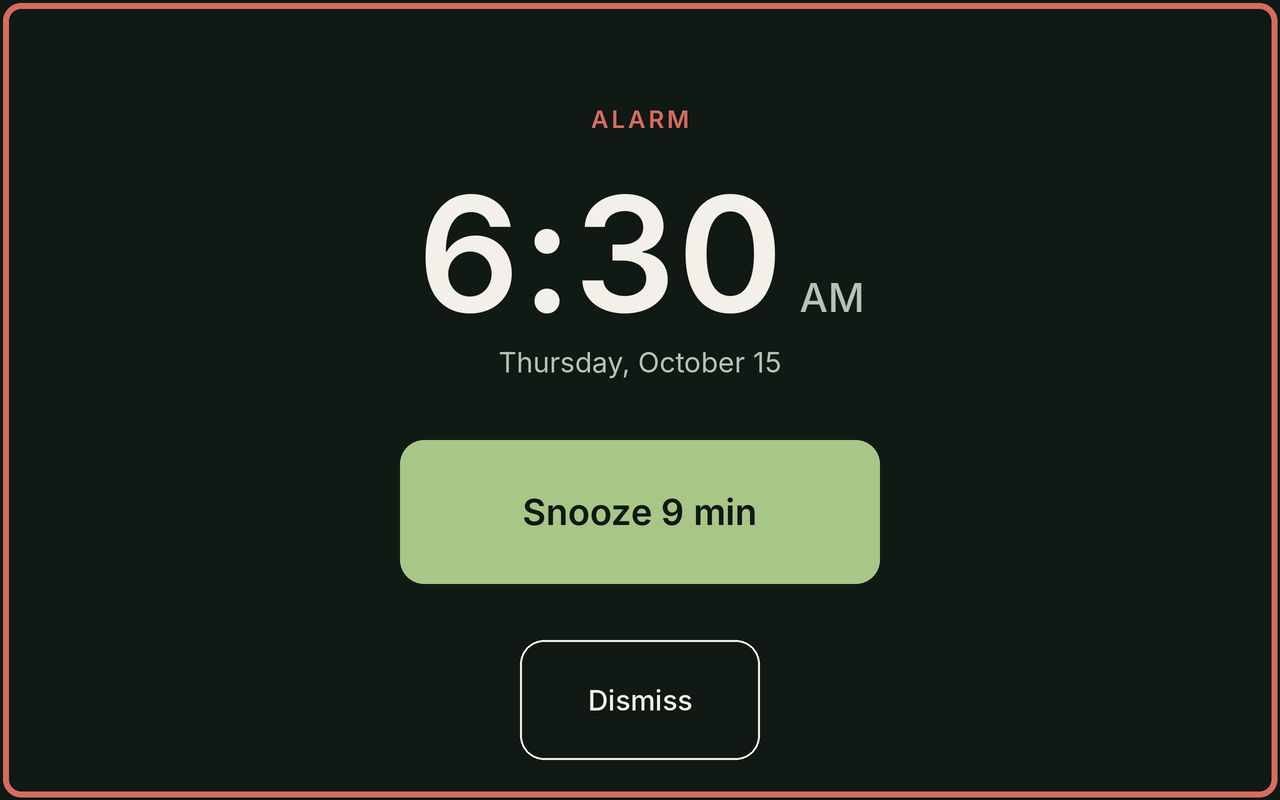
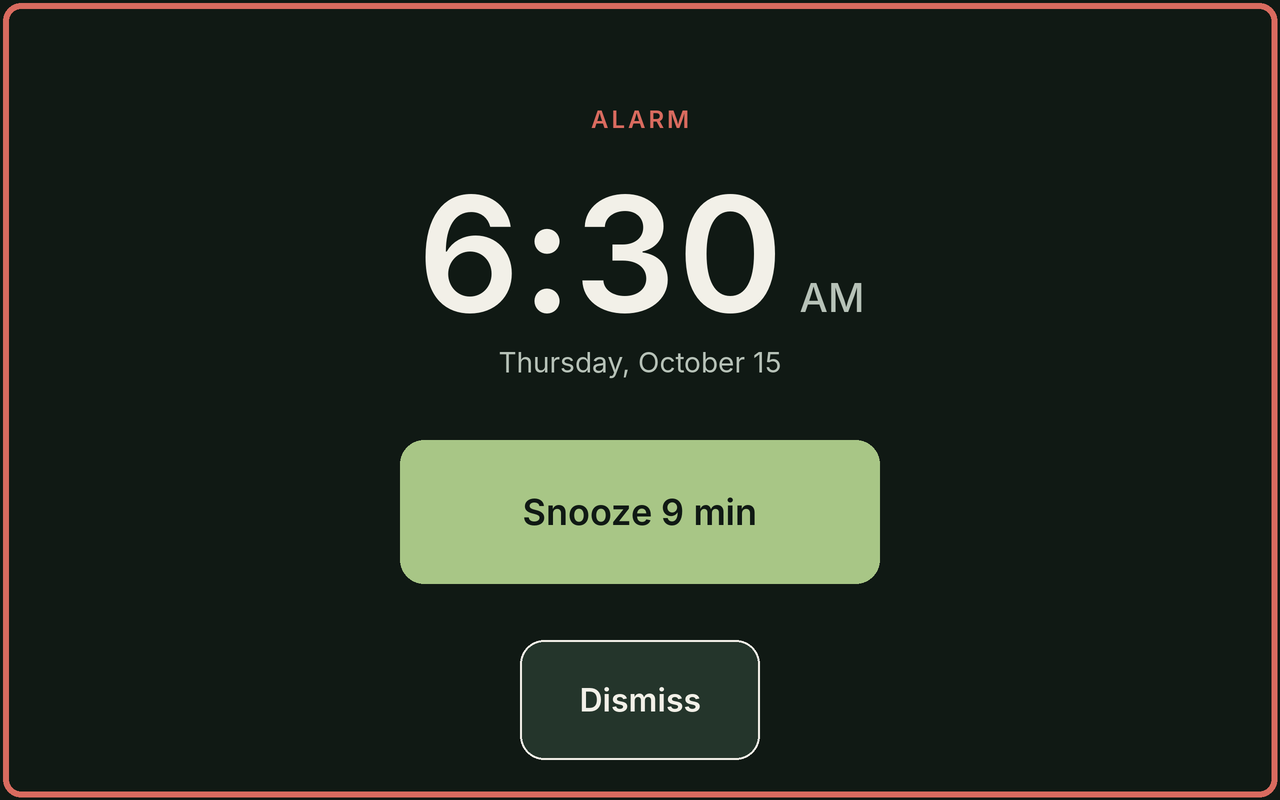
docs: design review follow-up (contrast, touch, recovery, alarm priority)
- Verified contrast for all text/state pairs; fixed 3 failures
- Snooze-stop gap, settings row/chip spacing, heavier Dismiss
- Atomic save with backup, save-error state, startup recovery
- Alarm preempts Settings; idle timer paused; touch guard on alarm screen
- Night clock wake tap consumed; Atkinson bundling + on-Pi sign-off steps
- Readability/touch table; settings-save-error mockup

Claude-Session: https://claude.ai/code/session_01TkmnQ4fWMJmvRhmzahQbQb

Changed region(s): [[0.4062, 0.7812, 0.5938, 0.9688]]

diff --git a/docs/superpowers/specs/2026-10-14-pi-picture-frame-design.md b/docs/superpowers/specs/2026-10-14-pi-picture-frame-design.md
@@ -5,7 +5,7 @@
 ## Goal
 A Raspberry Pi 3 wooden tabletop frame: photo slideshow + clock/date, calendar, weather and alarm, touch-controlled, runs unattended for weeks.
 
-**Who and where:** a shared household device, read at a glance from 2–3 m (living room) and used half-asleep at arm's length (bedside alarm). It should feel like a picture frame first and a gadget second: calm, dark, no clutter, nothing that needs instructions.
+**Who and where:** a shared household device, glanced at from across a room and used half-asleep at arm's length (bedside alarm). On a 10.1" panel (149 ppi, 1 px ≈ 0.17 mm) that gives two reading distances: the **clock and photos** are for the room (2–3 m); the **date, Today list, calendar and controls** are for arm's length (≈ 0.5–0.7 m). See "Readability and touch check". It should feel like a picture frame first and a gadget second: calm, dark, no clutter, nothing that needs instructions.
 
 ## Hardware
 - Raspberry Pi 3 (record B or B+), 16–32 GB A1 microSD, matching 5V PSU
@@ -32,10 +32,12 @@ Raspberry Pi OS Lite · Python 3 + pygame (SDL KMS/DRM, no desktop) · Open-Mete
 | `accent` | `#A8C686` | Today, On states, primary buttons; text on it is `bg` (9.5:1) |
 | `highlight` | `#E6B86A` | To-do marker, warnings |
 | `alarm` | `#D96B5F` | Alarm label, ring pulse, missed-alarm stripe. **Never** behind `text` (2.96:1 fails); if used as a fill, text on it is `bg` (5.3:1) |
-| `night` | `#6B786E` | Night clock text, on pure black `#000000` |
+| `night` | `#6B786E` | All night clock text including AM/PM, on pure black `#000000` (4.5:1) |
 
 ### Type scale
 Inter for clock, numbers and headings; Atkinson Hyperlegible for UI text. Nothing smaller than 18 px.
+
+**Font status:** the mockups use Inter for all text. Bundling Atkinson Hyperlegible (Regular + Bold, OFL) in `assets/fonts/` is a build-time task (plan Task 7). The visual design counts as final only after Atkinson is confirmed rendering on the Pi itself (plan Task 11), and after every label is re-checked for fit, because Atkinson runs wider than Inter.
 
 | Role | Font | Size |
 |---|---|---|
@@ -55,6 +57,23 @@ Clock digits use **fixed-width cells** (each digit centered in the width of "0")
 - Spacing on an 8 px grid; screen margin 32, gutter 24, panel padding 24
 - Text on photos: `bg` backing at 80% opacity, 20/24 px padding, soft 8 px shadow
 - No gradients or glow except the alarm ring pulse
+
+### Contrast (verified)
+Rule: text ≥ 4.5:1 against its actual background in every state; icons and control outlines ≥ 3:1. Measured with the WCAG 2.1 formula (worst case shown):
+
+| Pair | Ratio |
+|---|---|
+| `text` on `bg` / `panel` / `raised` / `pressed` | 15.7 / 13.4 / 11.4 / 9.2 |
+| `secondary` on `bg` / `panel` / `raised` / `pressed` | 9.8 / 8.3 / 7.1 / 5.7 |
+| `bg` on `accent` / pressed accent `#BCD69E` | 9.5 / 11.3 |
+| `alarm` on `bg` (ALARM caption only) | 5.3 |
+| `night` on black | 4.5 |
+| `text` / `secondary` on a photo chip over a pure-white photo (`bg` 80% → `#404743`) | 8.4 / 5.2 |
+| Icon `secondary` on `raised` (toggle-off knob, disabled stepper) | 7.1 |
+
+Not allowed (measured failures): `alarm` text on `raised` (3.8) or `pressed` (3.1); `text` on `alarm` (3.0); dimmed greys like `#6B766D` on `panel` (3.2). `raised` buttons on `panel` are only 1.2:1, so a button is identified by its icon or label (≥ 7:1), never by its fill alone.
+
+**Disabled state** (stepper at the end of its range, night start/end while night mode is off): the button loses its `raised` fill and its icon turns `secondary`, and values stay `secondary`. That is still 7–8:1, readable but clearly not active. Disabled buttons ignore taps.
 
 ### Icons
 Outlined, 2 px rounded strokes, pre-rendered PNGs in 32 and 48 px.
@@ -100,7 +119,7 @@ Outlined, 2 px rounded strokes, pre-rendered PNGs in 32 and 48 px.
 - **Calendar:** the date line above already names the month, so there is no month title. Today = 32 px `accent` circle with `bg` SemiBold digit. Days outside the month are blank. Week start follows `week_start`.
 - **Alarm row:** a `raised` card, radius 16, which is the `open_settings` button. Contents from left: bell icon 32, time (Inter SemiBold 28), days (e.g. "Mon–Fri", 20 px `secondary`), status dot (12 px: filled `accent` when on, `secondary` outline when off), countdown ("in 17h 49m", 20 px `secondary`, right-aligned), chevron-forward. The chevron tells people the row opens something.
   - Alarm off: "Alarm off" in `secondary`, outline dot, no countdown.
-  - **Snoozed:** the row narrows to `open_settings` (56, 672, 352, 72) and shows "Snoozed · rings 6:39" in `alarm`. A `stop_snooze` button (416, 672, 72, 72, close icon) cancels the snooze. Without it, someone who snoozed and got up has no way to stop the next ring except waiting for it.
+  - **Snoozed:** the row narrows to `open_settings` (56, 672, 336, 72) and shows "Snoozed · rings 6:39" (22 px SemiBold) in `text` with the bell icon in `alarm`. Alarm red is never used for text on `raised`. A `stop_snooze` button (416, 672, 72, 72, close icon) cancels the snooze; the 24 px gap keeps "open Settings" and "cancel snooze" from being hit by the same finger. Without it, someone who snoozed and got up has no way to stop the next ring except waiting for it.
 - **Photo content:** shows the current slideshow photo, cropped to fill. Landscape photos crop around the center; portrait photos keep the **upper third** in view, so faces aren't cut off. Empty folder: photo icon, "No photos yet" (28 px), the folder path (Inter 20 `secondary`, e.g. `/home/pi/frame/photos`) and "Add photos with rsync over SSH" (20 px `secondary`), centered.
 
 **Weather strip** (576×64): icon 48 · temp 32 px · condition label 22 px · "H 72°  L 55°" 22 px `secondary`, right-aligned.
@@ -111,7 +130,8 @@ Outlined, 2 px rounded strokes, pre-rendered PNGs in 32 and 48 px.
 **Banners** (one at a time, highest priority shown, "· 1 more" appended when others wait):
 1. "Missed alarm 6:30 AM": 6 px `alarm` left stripe; the whole banner is `clear_banner`, with a close icon at the right
 2. "Time not set": `highlight` stripe
-3. Config warning, e.g. "config.toml has errors — using defaults": `highlight` stripe
+3. "Settings not saved" (save failed, see Saving and recovery): `highlight` stripe
+4. Config warning, e.g. "config.toml has errors — using defaults": `highlight` stripe
 
 The banner is a `bg` 90% card, radius 16, with 22 px Atkinson text. Only the missed-alarm banner is dismissible; the others clear when their cause is fixed.
 
@@ -130,7 +150,8 @@ The banner is a `bg` 90% card, radius 16, with 22 px Atkinson text. Only the mis
 - "ALARM" (or "TEST ALARM") caption in `alarm`, centered at y 120
 - Time 160 px `text`, centered, y 160–330; date 28 px `secondary` at y 350
 - `snooze`: **primary**, (400, 440, 480, 144), `accent` fill, "Snooze 9 min" in 36 px `bg`. This is the button a half-asleep hand should land on.
-- `dismiss`: secondary, (520, 640, 240, 120), 2 px `text` outline, "Dismiss" 28 px. It sits 56 px below Snooze and is half as wide, so dismissing takes a deliberate tap.
+- `dismiss`: secondary, (520, 640, 240, 120), `raised` fill with a 2 px `text` outline, "Dismiss" in Inter SemiBold 32 `text` (11.4:1). It is half as wide as Snooze and sits 56 px below it, so dismissing takes a deliberate tap, but the solid fill and bold label keep it easy to find. Both labels spell out the action; there are no icon-only alarm buttons.
+- **Touch guard:** the alarm screen ignores any touch whose finger-down happened before the screen appeared, and all touches for its first 1 s. A tap meant to wake the night screen, or to adjust Settings, can't land on Snooze or Dismiss by accident.
 - Test alarm: same screen, caption "TEST ALARM", closes itself after 10 s
 
 ### Night clock (new)
@@ -138,17 +159,22 @@ Shown when someone taps the black night screen, for `wake_s` seconds (default 60
 - Pure black `#000000`, time 160 px Inter Medium in `night` color, centered at y 250–410
 - Below it, the `open_settings` button (440, 520, 400, 72) with no fill: "Alarm 6:30 AM · Mon–Fri" in 24 px `night` + chevron-forward. This is for checking or changing the alarm at bedtime without being lit up by the full dashboard.
 - The alarm itself still uses the normal Alarm screen at night
+- **Wake rules:**
+  - The tap that wakes the black screen is consumed: it only shows the night clock and never activates a button, even when it lands where `open_settings` will appear
+  - While the night clock shows, taps outside `open_settings` only restart the `wake_s` timer, and nothing changes mode
+  - The dimness comes from color (`night` on black), so it works on every screen whether or not backlight control exists
+  - If the alarm fires while the night clock or black screen is showing, the Alarm screen replaces it at once (touch guard above). After Dismiss or the 10-min stop it returns to black if it is still night, otherwise to the mode it interrupted
 
 ### Settings
 Opened from the dashboard alarm row (or the night clock). `bg` background.
 
 - **Header:** "Settings" Inter SemiBold 32 at (32, 44); hint "Saved when you tap Done" 18 px `secondary` below it; `done` (1088, 32, 160, 64), `accent` fill, "Done" 24 px `bg`
-- **Cards:** Alarm (32, 120, 596, 648) and Display (652, 120, 596, 648), `panel` fill, radius 24, padding 24. Card title 28 px at card top + 24. Rows start at card top + 72 and are 76 px tall (64 px control + 6 px above and below), separated by 1 px `divider`. Label is 24 px Atkinson on the left, control right-aligned.
+- **Cards:** Alarm (32, 120, 596, 648) and Display (652, 120, 596, 648), `panel` fill, radius 24, padding 24. Card title 28 px at card top + 24. Rows start at card top + 64 and are 80 px tall (64 px control + 8 px above and below, so stacked controls are 16 px apart), separated by 1 px `divider`. Label is 24 px Atkinson on the left, control right-aligned.
 - **Controls:**
   - Toggle: pill 88×48 (on = `accent` with `bg` knob on the right, off = `raised` with `secondary` knob on the left) in a 104×64 hit area; the knob position carries the state, not only the color
   - Stepper (272 wide): `[−]` 64×64 · value 144 wide, Inter SemiBold 28, centered · `[+]` 64×64, both `raised`; a button greys out (`secondary` icon at 40%) at the end of its range
   - Segmented: two 96×64 segments, the selected one `accent` with `bg` text
-  - Day chips: 64×64 circles with 8 px gaps; selected = `accent` fill + `bg` text, off = 2 px `secondary` outline. Two-letter labels (Mo Tu We Th Fr Sa Su), because single letters (T/T, S/S) are ambiguous. Order follows `week_start`
+  - Day chips: 64×64 circles with 16 px gaps (7 × 64 + 6 × 16 = 544); selected = `accent` fill + `bg` text, off = 2 px `secondary` outline. Two-letter labels (Mo Tu We Th Fr Sa Su), because single letters (T/T, S/S) are ambiguous. Order follows `week_start`
 
 | Alarm card | Control | Button ids |
 |---|---|---|
@@ -170,8 +196,31 @@ Opened from the dashboard alarm row (or the night clock). `bg` background.
 | Brightness (only if supported) | Stepper 10–100 %, ±10 | `brightness_minus`, `brightness_plus` |
 
 - Separate hour and minute steppers replace the single ±5 min stepper: moving 6:30 AM to 6:30 PM took 144 taps, and now takes 12
-- Changes apply live; `config.toml` is written once on Done, to spare the SD card
+- Changes apply live, including alarm time and days, so an alarm always follows what is on screen even before saving. `config.toml` is written once on Done (or idle close), to spare the SD card
 - **Idle close:** after 120 s with no touch, Settings saves and returns to the previous mode, so the frame never sits on Settings all day
+- **Settings never covers or delays an alarm.** Alarm checks run every tick in every mode. When an alarm (or snooze end) fires while Settings is open, the Alarm screen replaces it immediately; unsaved changes stay in memory. The idle timer is paused while the Alarm screen shows. After Dismiss/Snooze the frame returns to Settings with the idle timer restarted at 120 s. Test alarm works the same way.
+
+### Saving and recovery
+- **Atomic save:** write `config.toml.tmp`, flush and fsync, copy the current file to `config.toml.bak`, then rename the temp file over `config.toml`. A crash or power cut at any point leaves either the old or the new file intact, never a half-written one
+- **Save fails** (disk full, read-only SD card, permission): Settings stays open and the header shows an error strip (200, 32, 696, 64) in place of the hint: "Couldn't save settings: <reason>." (20 px `text`) / "Your previous settings are still on disk." (18 px `secondary`), `panel` fill, 6 px `highlight` stripe. Done becomes "Retry" (`done`), and "Keep for now" (`keep_unsaved`, 912, 32, 160, 64, `raised`) closes Settings: the new values stay in effect until restart, and the dashboard shows a "Settings not saved" banner (priority below Time not set). If the idle close hits a failed save, it takes the "Keep for now" path
+- **Startup recovery:** if `config.toml` is missing or invalid but `config.toml.bak` is valid, the frame loads the backup and shows the config-warning banner "config.toml was invalid — using last saved settings". Only if both fail does it fall back to defaults
+- Settings never writes an unvalidated value: every value comes from a stepper range or toggle, and the saved file is reloaded and compared once after writing
+
+### Readability and touch check
+Panel: 10.1" at 1280×800 = 149 ppi, so 1 px ≈ 0.17 mm. Reading distance is estimated from x-height (cap height for numerals): comfortable at ≥ 0.3° of visual angle, minimum 0.2°.
+
+| Element | Size on glass | Comfortable / minimum distance |
+|---|---|---|
+| Alarm and night clock (160 px) | 19.8 mm | 3.8 / 5.7 m |
+| Dashboard clock (96 px) | 11.9 mm | 2.3 / 3.4 m |
+| Photo-mode clock chip (64 px) | 7.9 mm | 1.5 / 2.3 m |
+| Weather temp (32 px) | 4.0 mm | 0.8 / 1.1 m |
+| Date (28), Today items (24), calendar (20) | 2.2–2.7 mm | 0.4–0.5 / 0.6–0.8 m |
+| Captions, weekday initials (18) | 1.7 mm | 0.3 / 0.5 m |
+
+- Readable across a room: the clock, on every screen. The date, list and calendar are for arm's length; making them readable from a sofa would need a different dashboard (for example, no calendar and a larger list), which is a product decision, not a tweak
+- Touch: the smallest target is 64 px = 10.9 mm square, above the common 9–10 mm fingertip guideline. Snooze is 82 × 25 mm and Dismiss 41 × 20 mm. Adjacent targets are ≥ 16 px (2.7 mm) apart, and Snooze/Dismiss 56 px (9.5 mm). Actions fire on release inside the same button, which absorbs near-misses
+- The mockups were checked at 1:1 (no scaling) on a monitor. Distances and targets still need confirming on the real panel (plan Task 11)
 
 ## Behavior
 - **Slideshow:** shuffle, 30 s default, fade `fade_ms` default 1000, 0 = cut (use if it stutters); JPG/PNG guaranteed, WebP only if pygame's image library reports support; unreadable files skipped; empty folder shows "No photos yet" with the folder path (default `/home/pi/frame/photos`); folder rescanned every 5 min. The dashboard photo and Photo mode share one sequence.
@@ -234,6 +283,17 @@ Confirm exact Pi 3 model and touchscreen model (touch interface, display control
 | 16 | Weather staleness was invisible until it vanished | "as of HH:MM" after 1 h |
 | 17 | Today rows spent width on the type word ("Appointment"), truncating titles | Marker shape carries the type; title gets the width |
 
-**Mockups:** `docs/design/` (dashboard, dashboard-snoozed, dashboard-empty, photo, alarm, night-clock, settings). They use Inter for all text because Atkinson Hyperlegible wasn't available to the renderer; the build uses Atkinson for UI text as specified.
+**Review follow-up (Rev 2.1):**
+
+| # | Check | Result / change |
+|---|---|---|
+| 18 | Contrast of final colors, including pressed and disabled | 3 failures found and fixed: snoozed text in `alarm` on `raised` (3.8:1) → `text`; night AM/PM `#4E5951` (2.9:1) → `night`; disabled grey (2.2–3.2:1) → no fill + `secondary`. Table under Visual system |
+| 19 | Mockups at 1:1, targets and readability | Snooze-stop gap 8 → 24 px; Settings rows 76 → 80 px; day-chip gap 8 → 16 px; Dismiss gets a solid fill and a bold 32 px label. The date, list and calendar are arm's-length text (≤ 0.7 m), not ≤ 1 m as Rev 2 said |
+| 20 | Save failure and recovery | Atomic save + `.bak`, error strip with Retry / Keep for now, backup used at startup |
+| 21 | Alarm vs Settings idle timeout | Alarm preempts on the same tick, idle timer paused, live (unsaved) alarm settings used |
+| 22 | Night clock wake | Wake tap consumed; alarm touch guard (finger-down before screen or < 1 s ignored) |
+| 23 | Atkinson Hyperlegible | Build-time task (plan Task 7 Step 0) + on-Pi visual sign-off (Task 11 Step 4b) |
+
+**Mockups:** `docs/design/` (dashboard, dashboard-snoozed, dashboard-empty, photo, alarm, night-clock, settings, settings-save-error). They use Inter for all text because Atkinson Hyperlegible wasn't available to the renderer; the build uses Atkinson for UI text as specified.
 
 **Considered, deferred** (not Phase 1): pause button in Photo mode; day/night variants of the clear icon; ±2 px hourly layout shift against IPS image retention; hold-to-repeat on steppers.

diff --git a/docs/superpowers/plans/2026-10-14-pi-picture-frame.md b/docs/superpowers/plans/2026-10-14-pi-picture-frame.md
@@ -38,7 +38,8 @@
 **Interfaces — Produces:**
 - `@dataclass Config`: `photo_dir: Path`, `interval_s: int=30`, `fade_ms: int=1000`, `lat: float|None`, `lon: float|None`, `units: str="fahrenheit"`, `clock_24h: bool=False`, `week_start: str="sunday"`, `overlay_corner: str="bottom-left"`, `night_enabled: bool=True`, `night_start: time=time(23,0)`, `night_end: time=time(6,0)`, `wake_s: int=60`, `alarm_enabled: bool=True`, `alarm_time: time=time(6,30)`, `alarm_days: set[int]={0,1,2,3,4}` (Mon=0), `snooze_min: int=9`, `cache_mb: int=500`, `todo_path: Path`
 - `load_config(path: Path) -> tuple[Config, list[str], bool]` → config, warnings, `critical` (True if photo_dir, alarm or location invalid)
-- `save_config(cfg: Config, path: Path) -> None` (atomic: write temp, rename)
+- `save_config(cfg: Config, path: Path) -> str|None` → `None` on success, else a short reason. Atomic: write `config.toml.tmp`, fsync, copy current file to `config.toml.bak`, rename temp over `config.toml`, reload and compare. On any failure the previous `config.toml` is untouched
+- `load_config` falls back to `config.toml.bak` (with a warning) when `config.toml` is missing or invalid; defaults only if both fail
 
 - [ ] **Step 1:** `git init`; write tests:
   - `test_missing_file_gives_defaults_and_warning`: warnings non-empty, `critical is False` unless photo dir absent
@@ -46,6 +47,8 @@
   - `test_rejected_value_logged_with_fallback`: `interval_s = -5` → `cfg.interval_s == 30`, warning mentions `interval_s` and `30`
   - `test_bad_alarm_time_is_critical`: `alarm_time = "25:99"` → `critical is True`
   - `test_save_roundtrip`: save then load → equal Config, no warnings
+  - `test_save_failure_keeps_previous_file`: monkeypatch `os.replace` to raise → returns a reason, `config.toml` bytes unchanged, no `.tmp` left
+  - `test_invalid_main_uses_backup`: valid `.bak` + broken `config.toml` → backup values, warning mentions "last saved"
 - [ ] **Step 2:** `pytest tests/test_config.py -v` → FAIL (import error)
 - [ ] **Step 3:** Implement with `tomllib` read, `tomli_w` write; validate field by field, collecting warnings
 - [ ] **Step 4:** `pytest tests/test_config.py -v` → PASS
@@ -168,9 +171,11 @@
 - `theme`: color constants from spec, `font(name: str, size: int) -> pygame.font.Font` (cached)
 - `widgets`: `Button(rect, label|icon, action: str)`, `Toggle`, `Stepper`, `Segmented`, `DayChip`; each `draw(surf, pressed: bool=False)`, `hit(pos) -> str|None`; hit rect ≥ 64×64 even when the visible shape is smaller
 - `theme.digits(text, font, color) -> Surface`: renders the clock with fixed-width digit cells
+- `theme.contrast(fg, bg) -> float` (WCAG 2.1) and `theme.TEXT_PAIRS` / `theme.ICON_PAIRS`: every foreground/background pair the screens use, including pressed and disabled
 - `dashboard.render(surf, vm: dict) -> list[Button]` — `vm` keys: `time, ampm, date, today_items, more, month_cells, alarm_text, alarm_days, alarm_on, alarm_state, snooze_until, countdown, weather (Weather|None), weather_as_of (str|None), photo (Surface|None), photo_dir, banner (dict|None: text, kind, more)`; returned buttons: `"to_photo"`, `"open_settings"`, plus `"stop_snooze"` when snoozed and `"clear_banner"` when the banner is a missed alarm
 
-- [ ] **Step 1:** Test (run with `SDL_VIDEODRIVER=dummy`): `test_dashboard_renders_all_states` renders normal / weather None / weather stale / photo None / empty today / snoozed / missed-alarm banner onto 1280×800 surface, asserts buttons at spec rects (`to_photo` = (1160,56,64,64), `open_settings` = (56,672,432,72), snoozed: `open_settings` = (56,672,352,72) + `stop_snooze` = (416,672,72,72)), saves PNGs to `tests/out/`
+- [ ] **Step 0:** Bundle `assets/fonts/AtkinsonHyperlegible-Regular.ttf`, `-Bold.ttf` and Inter (OFL licence files alongside). Tests: `test_bundled_fonts_load` (each file exists and `theme.font` loads it, never pygame's default font); `test_theme_contrast` (every `TEXT_PAIRS` ≥ 4.5, every `ICON_PAIRS` ≥ 3.0)
+- [ ] **Step 1:** Test (run with `SDL_VIDEODRIVER=dummy`): `test_dashboard_renders_all_states` renders normal / weather None / weather stale / photo None / empty today / snoozed / missed-alarm banner onto 1280×800 surface, asserts buttons at spec rects (`to_photo` = (1160,56,64,64), `open_settings` = (56,672,432,72), snoozed: `open_settings` = (56,672,336,72) + `stop_snooze` = (416,672,72,72)), saves PNGs to `tests/out/`
 - [ ] **Step 2:** Run → FAIL
 - [ ] **Step 3:** Implement to the spec layout table
 - [ ] **Step 4:** Run → PASS; open PNGs and compare with the canvas
@@ -184,9 +189,9 @@
 - `photo_mode.render(surf, vm, controls_visible: bool, hide_progress: float) -> list[Button]` → `"prev"` (376,688,120,80), `"next"` (512,688,120,80), `"to_dashboard"` (648,688,256,80) only when visible; `"clear_banner"` when a missed-alarm chip shows
 - `alarm_screen.render(surf, vm, pulse: float) -> list[Button]` → `"snooze"` (400,440,480,144), `"dismiss"` (520,640,240,120)
 - `night_clock.render(surf, vm) -> list[Button]` → `"open_settings"` (440,520,400,72)
-- `settings_screen.render(surf, cfg: Config, brightness_supported: bool) -> list[Button]` → `"done"`, `"alarm_toggle"`, `"alarm_hour_minus/plus"`, `"alarm_min_minus/plus"`, `"day_0"…"day_6"`, `"snooze_minus/plus"`, `"test_alarm"`, `"interval_minus/plus"`, `"fade_toggle"`, `"clock_12"`, `"clock_24"`, `"night_toggle"`, `"night_start_minus/plus"`, `"night_end_minus/plus"`, `"brightness_minus/plus"` (only if supported)
+- `settings_screen.render(surf, cfg: Config, brightness_supported: bool, save_error: str|None=None) -> list[Button]` → `"done"` (labelled "Retry" when `save_error`), `"keep_unsaved"` (only when `save_error`), `"alarm_toggle"`, `"alarm_hour_minus/plus"`, `"alarm_min_minus/plus"`, `"day_0"…"day_6"`, `"snooze_minus/plus"`, `"test_alarm"`, `"interval_minus/plus"`, `"fade_toggle"`, `"clock_12"`, `"clock_24"`, `"night_toggle"`, `"night_start_minus/plus"`, `"night_end_minus/plus"`, `"brightness_minus/plus"` (only if supported)
 
-- [ ] **Step 1:** Tests: each screen renders without error, expected button ids present at spec rects, all buttons ≥ 64×64, no two buttons overlap; settings without brightness support has no `brightness_*`; save PNGs
+- [ ] **Step 1:** Tests: each screen renders without error, expected button ids present at spec rects, all buttons ≥ 64×64, no two buttons overlap and adjacent ones are ≥ 16 px apart; settings without brightness support has no `brightness_*`; settings with `save_error` shows `keep_unsaved`; `test_labels_fit_their_boxes` (every label rendered in its real font, Atkinson included, fits its box without clipping); save PNGs
 - [ ] **Step 2:** Run → FAIL
 - [ ] **Step 3:** Implement
 - [ ] **Step 4:** Run → PASS; review PNGs
@@ -203,7 +208,12 @@
 - [ ] **Step 1:** Tests:
   - `test_photo_tap_shows_controls_then_hides_after_5s`
   - `test_only_mode_buttons_switch_mode`: tap with `None` on dashboard → stays
-  - `test_alarm_preempts_settings_and_dark`: ringing from `"settings"` and `"dark"` → `"alarm"`; after dismiss returns to previous mode (dark if night)
+  - `test_alarm_preempts_settings_and_dark`: ringing from `"settings"`, `"dark"` and `"night_clock"` → `"alarm"` on the same tick; after dismiss returns to previous mode (dark if night)
+  - `test_settings_idle_paused_during_alarm`: Settings open 110 s, alarm rings 5 min, dismiss → back in Settings with 120 s left; unsaved changes kept
+  - `test_alarm_uses_live_unsaved_settings`: change alarm time in Settings without Done → alarm fires at the new time
+  - `test_alarm_ignores_early_touch`: touch whose finger-down came before the alarm screen, or within its first 1 s → no snooze/dismiss
+  - `test_wake_tap_is_consumed`: tap in `"dark"` at the `open_settings` rect → `"night_clock"`, not Settings; a second tap there opens Settings; taps elsewhere only extend `wake_s`
+  - `test_save_failure_keeps_settings_open`: fake `save_config` returning a reason → mode stays `"settings"`, `save_error` set; `keep_unsaved` → previous mode with "Settings not saved" banner; idle close on failure takes the same path
   - `test_tap_in_dark_shows_night_clock`: tap in `"dark"` → `"night_clock"`, back to `"dark"` after `wake_s`
   - `test_settings_change_returns_new_config`: `alarm_min_plus` → +5 min; `alarm_hour_plus` at 23:30 → 00:30
   - `test_stop_snooze_returns_idle`
@@ -236,6 +246,7 @@
 - [ ] **Step 2:** `frame.service`: `User=pi`, `Environment=SDL_VIDEODRIVER=kmsdrm`, `ExecStart=/usr/bin/python3 -m frame.app`, `Restart=always`, `RestartSec=3`, `After=time-sync.target`
 - [ ] **Step 3:** On the Pi: run setup, reboot. Verify: `hwclock -r` shows correct time; `systemctl status frame` active; frame visible within 45 s (measure with `systemd-analyze` + stopwatch)
 - [ ] **Step 4:** Verify touch on all screens, alarm sound via Test alarm, each `screen_power` method on this screen; set the one that works
+- [ ] **Step 4b (visual sign-off):** photograph every screen on the Pi and compare with `docs/design/`: Atkinson Hyperlegible is what renders (not a fallback), no clipped labels; read the clock at 2.5 m and the Today list at 0.6 m; hit every button with a fingertip, including the day chips and Snooze/Dismiss half-asleep style (eyes half closed, no aiming); check night clock dimness in a dark room. Visual design is final only after this step
 - [ ] **Step 5:** Commit `chore: Pi deployment`
 
 ### Task 12: 48 h soak test
